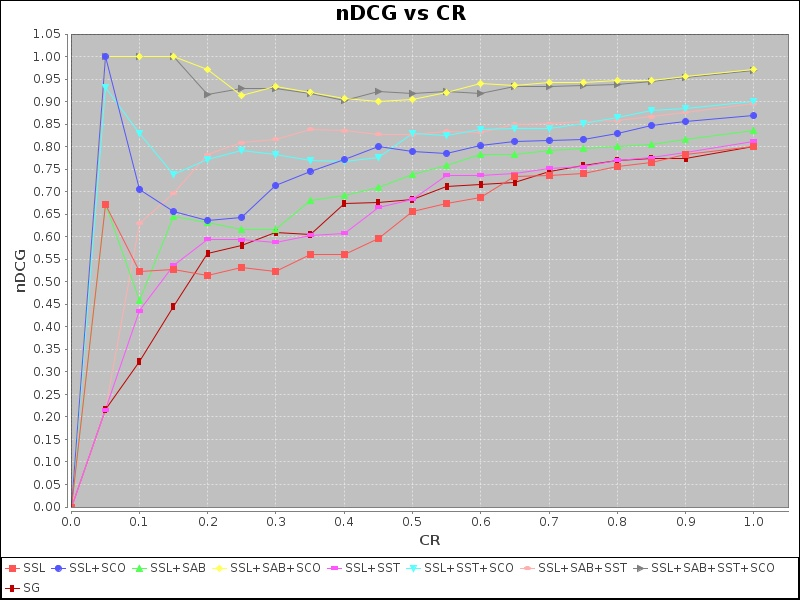
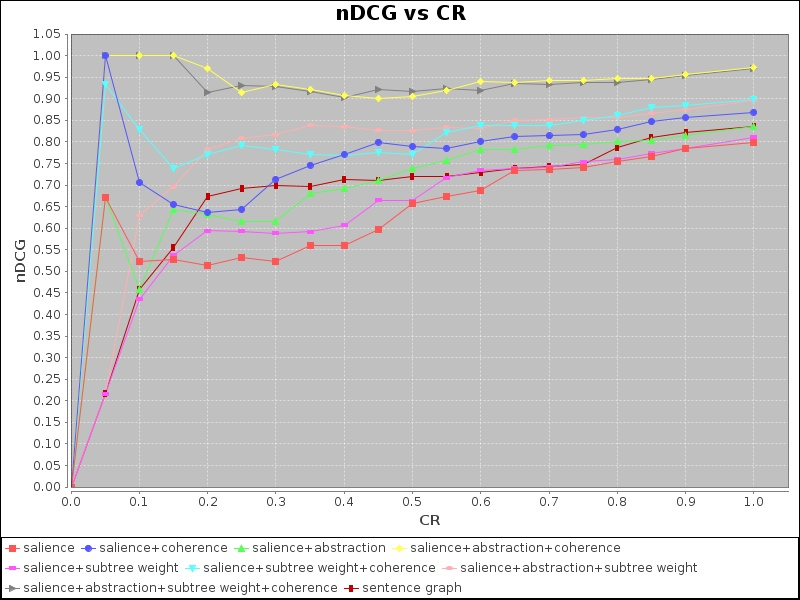
nicer plotting

Changed region(s): [[0.0, 0.09, 1.0, 0.99]]

diff --git a/OntologySummarization/src/fr/inria/wimmics/explanation/evaluation/test/DCGSurveyInference1Test.java b/OntologySummarization/src/fr/inria/wimmics/explanation/evaluation/test/DCGSurveyInference1Test.java
@@ -68,23 +68,34 @@ public class DCGSurveyInference1Test {
 	
 	//Scoresalience : SSL Scoresimilarity : SSM Scoresubtree: SST ScoreAbstraction: SAB ReRank by coherence: SCO
 	
-	static XYSeries soloCentralityNdcgCR = 												new XYSeries("SSL");
-	static XYSeries soloReRankNdcgCR = 													new XYSeries("SSL+SCO");
+//	static XYSeries soloCentralityNdcgCR = 												new XYSeries("SSL");
+//	static XYSeries soloReRankNdcgCR = 													new XYSeries("SSL+SCO");
+//	
+//	static XYSeries soloAbstractionNdcgCR = 											new XYSeries("SSL+SAB");
+//	static XYSeries salientAbstractionReRankNdcgCr = 									new XYSeries("SSL+SAB+SCO");	
+//	
+//	static XYSeries soloProofTreeSubtreeWeightNdcgCR = 									new XYSeries("SSL+SST");//rerank
+//	static XYSeries salientSubtreeReRankNdcgCR = 										new XYSeries("SSL+SST+SCO");
+//	
+//	static XYSeries salienceAndAbstractAndSubtreeWeightNdcgCR = 						new XYSeries("SSL+SAB+SST");
+//	static XYSeries salientAbstractionSubtreeReRankNdcgCr = 							new XYSeries("SSL+SAB+SST+SCO");
 	
-	static XYSeries soloAbstractionNdcgCR = 											new XYSeries("SSL+SAB");
-	static XYSeries salientAbstractionReRankNdcgCr = 									new XYSeries("SSL+SAB+SCO");	
+	static XYSeries soloCentralityNdcgCR = 												new XYSeries("salience");
+	static XYSeries soloReRankNdcgCR = 													new XYSeries("salience+coherence");
 	
-	static XYSeries soloProofTreeSubtreeWeightNdcgCR = 									new XYSeries("SSL+SST");//rerank
-	static XYSeries salientSubtreeReRankNdcgCR = 										new XYSeries("SSL+SST+SCO");
+	static XYSeries soloAbstractionNdcgCR = 											new XYSeries("salience+abstraction");
+	static XYSeries salientAbstractionReRankNdcgCr = 									new XYSeries("salience+abstraction+coherence");	
 	
-	static XYSeries salienceAndAbstractAndSubtreeWeightNdcgCR = 						new XYSeries("SSL+SAB+SST");
-	static XYSeries salientAbstractionSubtreeReRankNdcgCr = 							new XYSeries("SSL+SAB+SST+SCO");
+	static XYSeries soloProofTreeSubtreeWeightNdcgCR = 									new XYSeries("salience+subtree weight");//rerank
+	static XYSeries salientSubtreeReRankNdcgCR = 										new XYSeries("salience+subtree weight+coherence");
+	
+	static XYSeries salienceAndAbstractAndSubtreeWeightNdcgCR = 						new XYSeries("salience+abstraction+subtree weight");
+	static XYSeries salientAbstractionSubtreeReRankNdcgCr = 							new XYSeries("salience+abstraction+subtree weight+coherence");	
 	
 	
 	
-	
-	
-	static XYSeries sentenceGraphNdcgCR = new XYSeries("SG");
+//	static XYSeries sentenceGraphNdcgCR = new XYSeries("SG");
+	static XYSeries sentenceGraphNdcgCR = new XYSeries("sentence graph");
 	
 	
 	
@@ -239,9 +250,24 @@ public class DCGSurveyInference1Test {
 		// Configure chart to generate URLs?
 				);
 		
+		chart.setBorderVisible(true);
+		
+		XYPlot p = chart.getXYPlot();
+		XYLineAndShapeRenderer growthRenderer = new XYLineAndShapeRenderer(true,true);
+//		        
+//		growthRenderer.setSeriesPaint(0, Color.black);
+//		growthRenderer.setSeriesPaint(1, Color.cyan);
+//		growthRenderer.setShape(new Rectangle(-3,-3,6,6));
+//		growthRenderer.setOutlineStroke(new BasicStroke(2));
+//		growthRenderer.setOutlinePaint(Color.red);
+//		growthRenderer.setUseOutlinePaint(true); 
+//		        
+		//p.setRenderer(0,growthRenderer);	
+		p.setRenderer(growthRenderer);		
+		
 		try {
 			ChartUtilities.saveChartAsJPEG(new File("files/evaluation/dcg/survey/inf1/sim_ndcg_v_cr.jpg"), chart,
-					500, 300);
+					800, 600);
 		} catch (IOException e) {
 			System.err.println("Problem occurred creating chart.");
 		}			
@@ -282,9 +308,16 @@ public class DCGSurveyInference1Test {
 				false
 		// Configure chart to generate URLs?
 				);
+		
+		fMeasureCRchart.setBorderVisible(true);
+		
+		XYPlot p1 = fMeasureCRchart.getXYPlot();
+		XYLineAndShapeRenderer growthRenderer1 = new XYLineAndShapeRenderer(true,true);
+		
+		p1.setRenderer(growthRenderer1);		
 		try {
 			ChartUtilities.saveChartAsJPEG(new File("files/evaluation/dcg/survey/inf1/sim_fmeasure_v_cr.jpg"), fMeasureCRchart,
-					500, 300);
+					800, 600);
 		} catch (IOException e) {
 			System.err.println("Problem occurred creating fmeasure v cr chart.");
 		}	
@@ -1896,7 +1929,7 @@ public class DCGSurveyInference1Test {
 			
 			if(o2.getJudgmentScore()>o1.getJudgmentScore()) return 1;
 			if(o2.getJudgmentScore()<o1.getJudgmentScore()) return -1;
-			return 0;
+			return o1.getName().compareTo(o2.getName());
 		}
 		
 	}

diff --git a/OntologySummarization/src/fr/inria/wimmics/explanation/JustificationProcessor.java b/OntologySummarization/src/fr/inria/wimmics/explanation/JustificationProcessor.java
@@ -350,7 +350,7 @@ public class JustificationProcessor {
 			public int compare(KnowledgeStatement o1, KnowledgeStatement o2) {
 				if(o1.getScore()>o2.getScore()) return -1;
 				if(o1.getScore()<o2.getScore()) return 1;
-				return 0;
+				return o1.getStatement().getContext().stringValue().compareTo(o2.getStatement().getContext().stringValue());
 			}
 			
 		});
@@ -453,7 +453,7 @@ public class JustificationProcessor {
 			public int compare(KnowledgeStatement o1, KnowledgeStatement o2) {
 				if(o1.getSubTreeWeight()>o2.getSubTreeWeight()) return -1;
 				if(o1.getSubTreeWeight()<o2.getSubTreeWeight()) return 1;
-				return 0;
+				return o1.getStatement().getContext().stringValue().compareTo(o2.getStatement().getContext().stringValue());
 			}
 			
 		});
@@ -516,7 +516,7 @@ public class JustificationProcessor {
 			public int compare(KnowledgeStatement o1, KnowledgeStatement o2) {
 				if(o1.getReRankedScore()>o2.getReRankedScore()) return -1;
 				if(o1.getReRankedScore()<o2.getReRankedScore()) return 1;
-				return 0;
+				return o1.getStatement().getContext().stringValue().compareTo(o2.getStatement().getContext().stringValue());
 			}
 		});
 		
